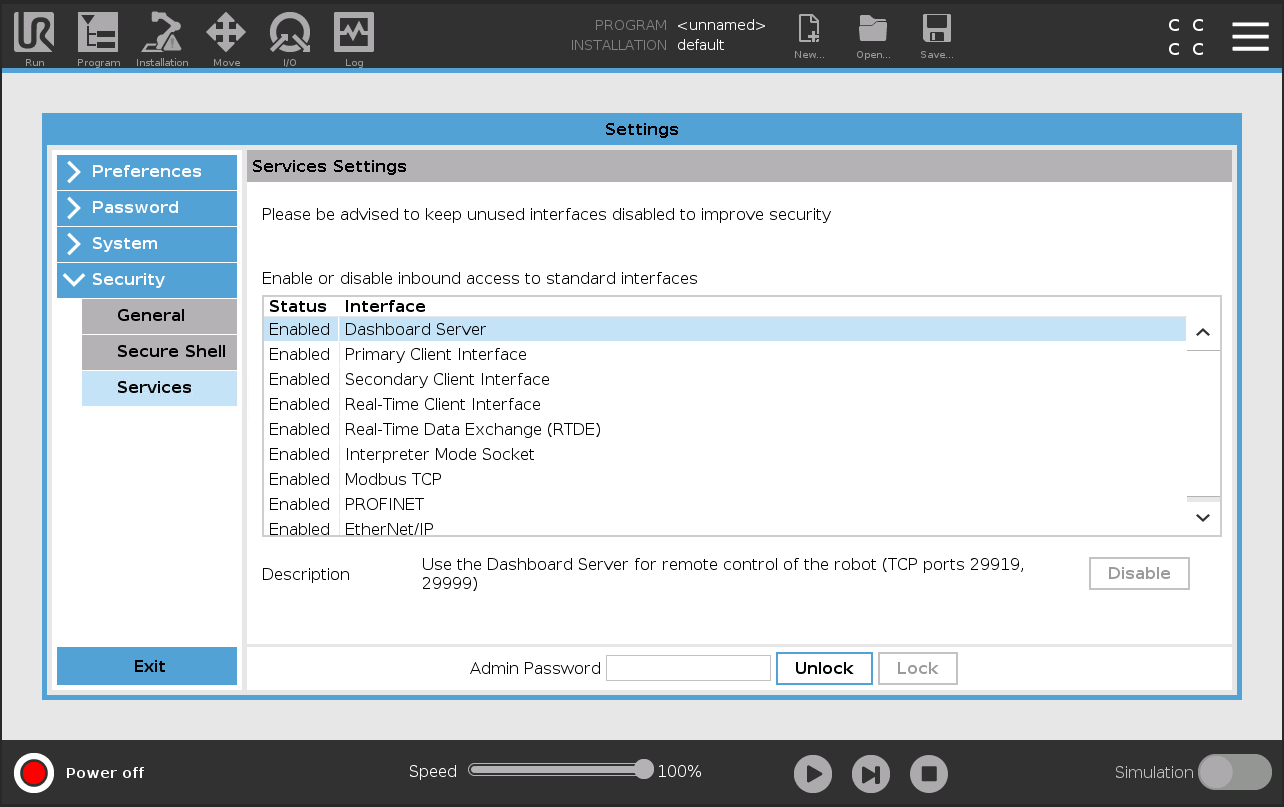
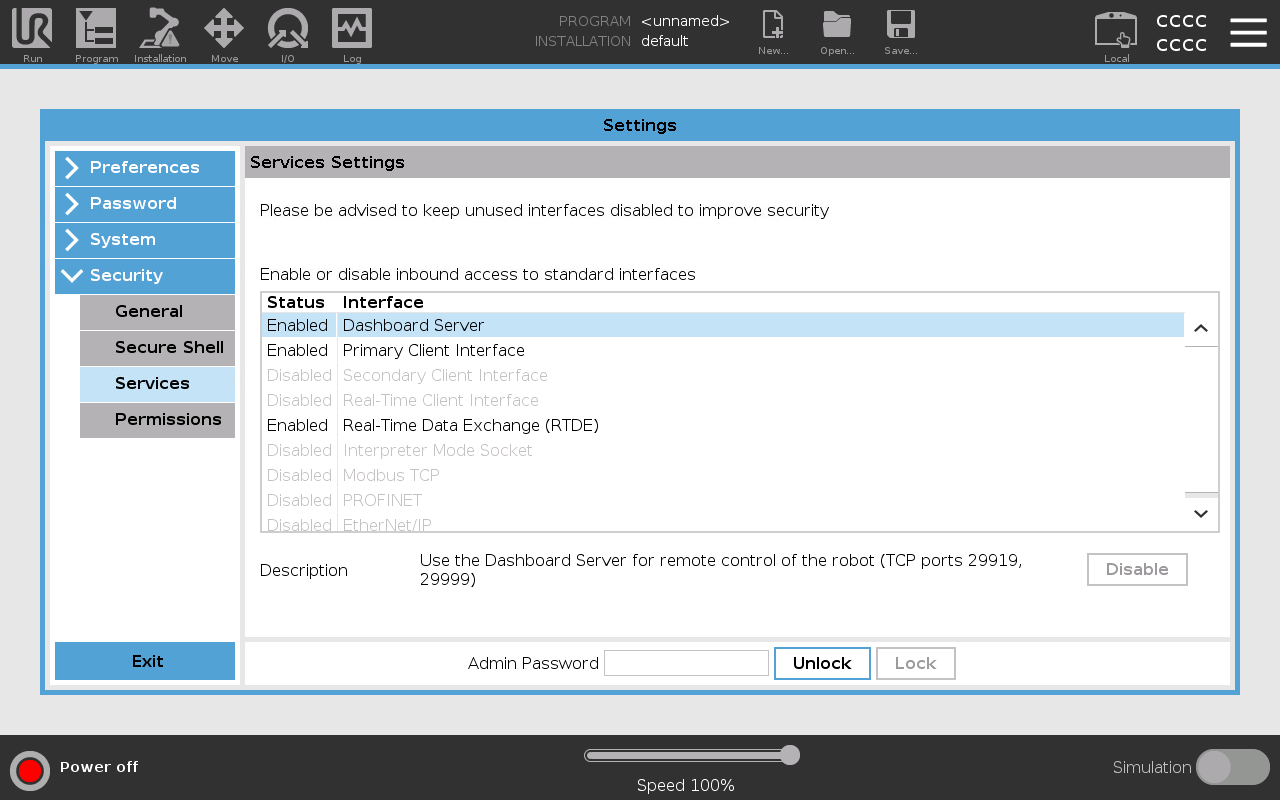
Remove section about URCapX in development (#521)
The External Control URCapX is considered maintained rather than
developed by now, so it's fair to remove that statement. The robot setup
instructions clearly cover that for PolyScope X another URCapX is
needed, so that should suffice.

Pull request: Remove section about URCapX in development
The External Control URCapX is considered maintained rather than developed by now, so it's fair to remove that statement. The robot setup instructions clearly cover that for PolyScope X another URCapX is needed, so that should suffice.

<!-- CURSOR_SUMMARY -->
---

> [!NOTE]
> **Low Risk**
> Documentation-only edit with no runtime or API impact.
> 
> **Overview**
> Updates the **PolyScope X** compatibility note in `polyscope_compatibility.rst` by removing the bullet that external control on PolyScope X needs a separate **External Control URCapX** that was described as still being created, with a link to the URCapX repository.
> 
> The note still lists **Dashboard client** limitations on PolyScope X; setup guidance for the URCapX remains in the robot setup docs.
> 
> <sup>Reviewed by [Cursor Bugbot](https://cursor.com/bugbot) for commit 1a936f729b437b49d985a5ec7068ed34868efedd. Bugbot is set up for automated code reviews on this repo. Configure [here](https://www.cursor.com/dashboard/bugbot).</sup>
<!-- /CURSOR_SUMMARY -->

diff --git a/doc/polyscope_compatibility.rst b/doc/polyscope_compatibility.rst
@@ -46,9 +46,6 @@ table below or checkout the latest tag before the breaking changes were introduc
        replacing the Dashboard Server in version 10.11.0. It covers robot state control and loading
        and playing programs.
        From version 10.12, it also supports uploading programs to the robot and downloading programs from the robot, as well as listing existing programs on the robot.
-     - Using external control on |polyscope| X requires another URCapX for making external control
-       work. This is currently in the process of being created.
-       See `Universal Robots External Control URCapX <https://github.com/UniversalRobots/Universal_Robots_ExternalControl_URCapX>`_
 
 .. |polyscope| replace:: PolyScope
 